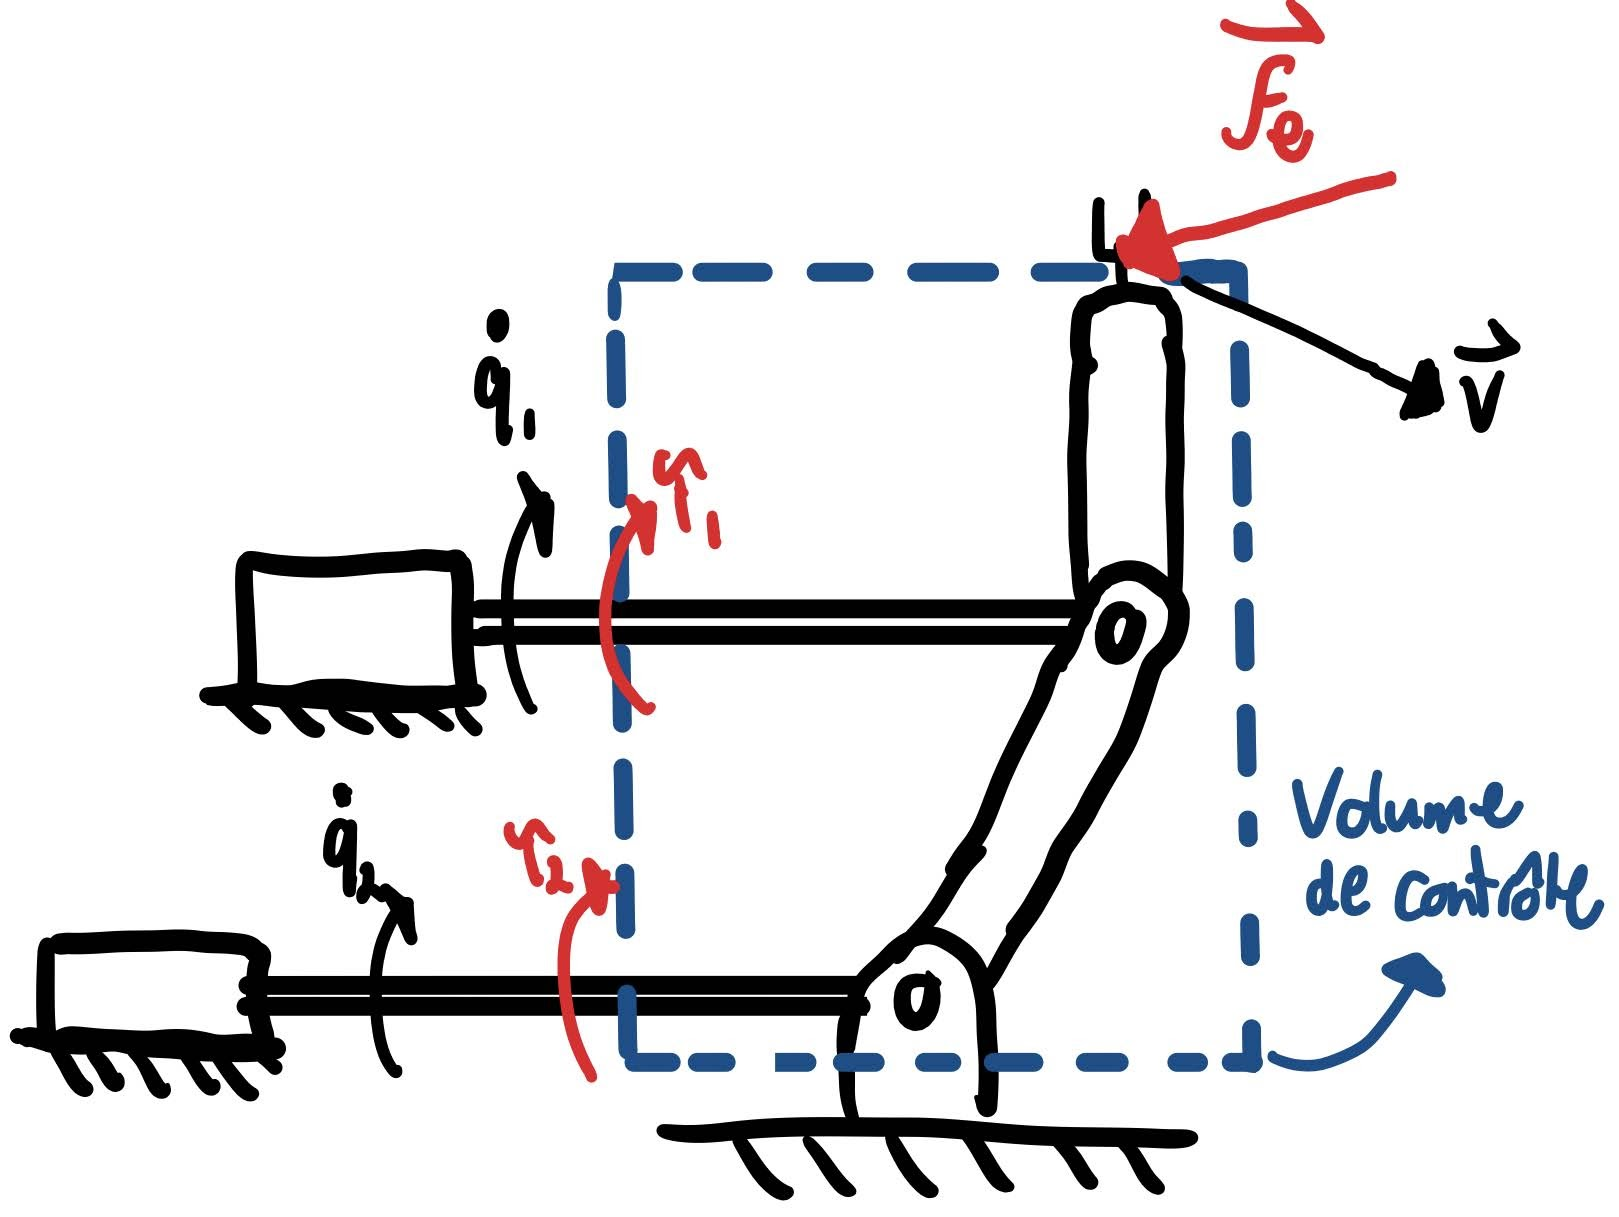
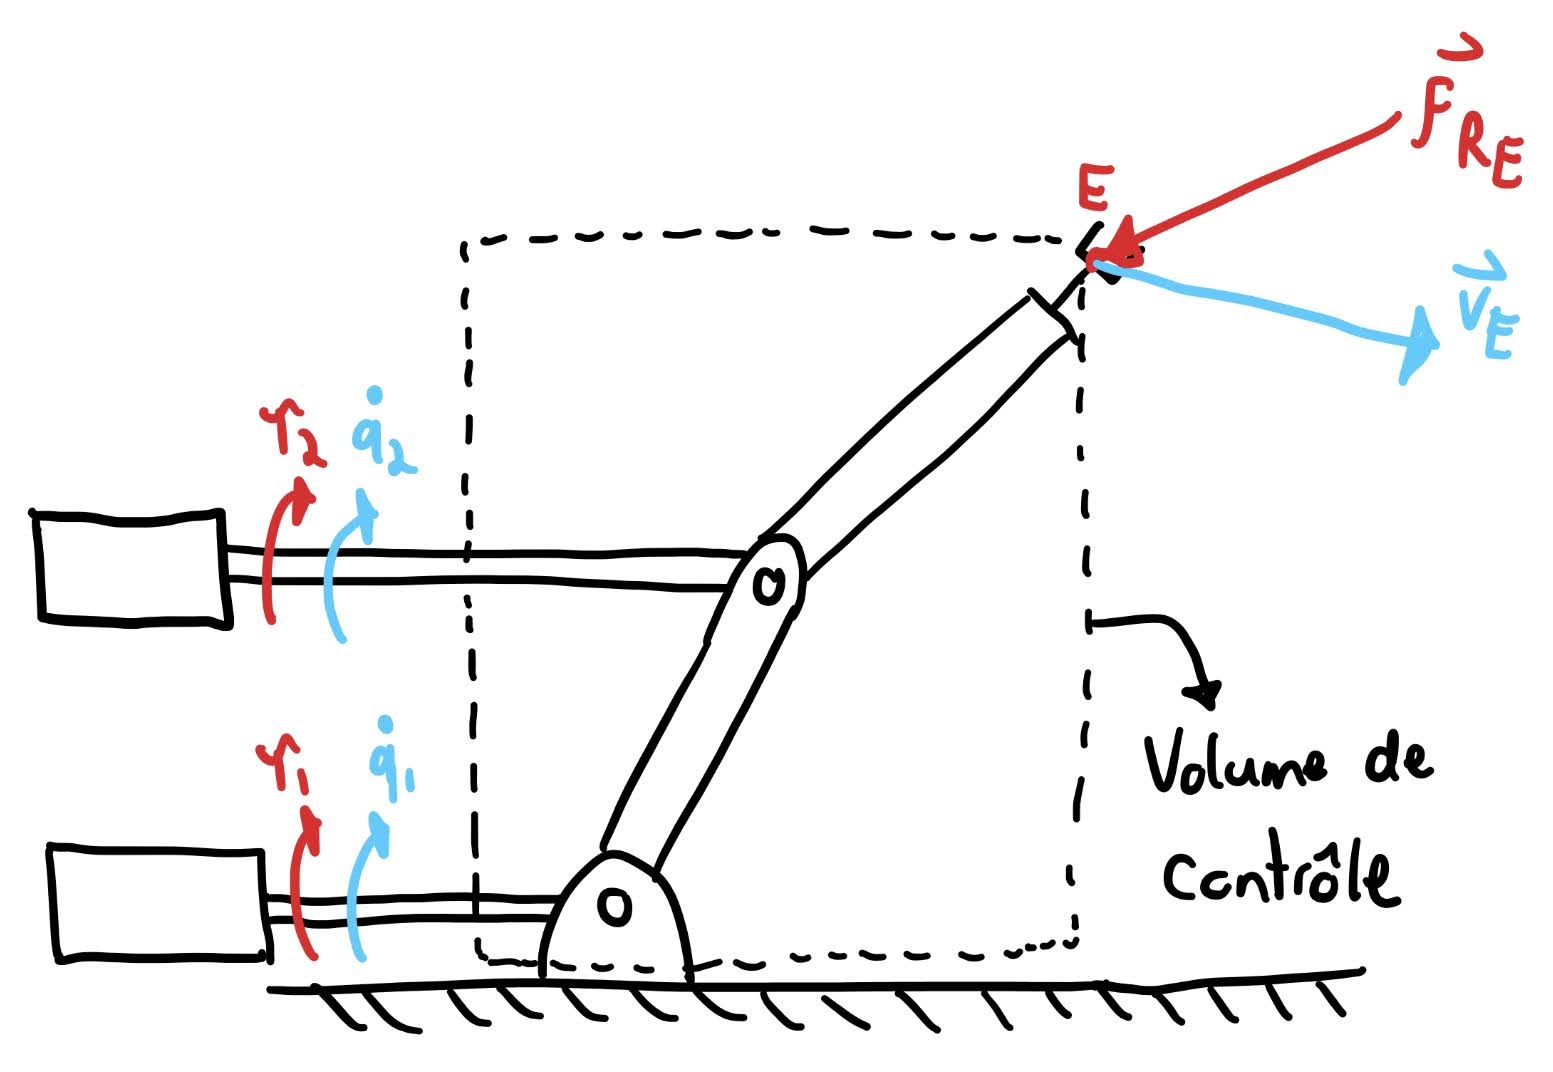
manipulability work

diff --git a/src/manip/static.tex b/src/manip/static.tex
@@ -3,50 +3,16 @@
 
 %Chapitre en construction!
 
+\section{Introduction}
 
-\section{Force}
-\label{sec:force}
-
-Une force est une quantité vectorielle avec une amplitude et une direction, comme pour les notions de cinématique, nous utiliserons une notion qui distingue le vecteur-géométrique $\Vec{f}$ et le vecteur-colonne de composantes $\col{f}^a$ dans une base $a$. Une force appliquée sur un corps $C1$ à un point $A$ sera notée: 
-%%%%%%%%%%%%%%%%
+Ce chapitre présente des méthodes pour déterminer les relations entre les divers forces agissant sur un robot manipulateur lorsque le système est à l'équilibre. La matrice jacobienne $J$, la même matrice de la relation de cinématique différentielle de l'équation \ref{eq:diffkinrel}, permet de transformer une force cartésienne $\col{f}_E$, que l'effecteur du robot applique sur l'environnement, en couples (ou force pour un joint prismatique) équivalents $\col{\tau}$ dans le domaine des joints:
+%%%%%%%%%%%%%%%%%%%%%%%%%%%%%%%%%%%%%%%%%%%%%%%%%%%%%%%%%%%%%%
 \begin{align}
-\vec{f}_{C1_A}
+\col{\tau} &= J\left( \, \col{q} \, \right)^T \, \col{f}_E
+\label{eq:static1}
 \end{align}
-%%%%%%%%%%%%%%%
-Le principe d'action/réaction indique que si une force est appliquée sur un corps $C1$ il y a nécessairement une réaction égale et opposée sur un corps $C2$. Ici une force agissant sur un corps $C1$ par un corps $C2$ ainsi
-%%%%%%%%%%%%%%%%
-\begin{align}
-\vec{f}_{C1_A/C2_B}
-\end{align}
-%%%%%%%%%%%%%%%
-et le principe d'action/réaction nous donne donc la propriété suivante:
-%%%%%%%%%%%%%%%%
-\begin{align}
-\vec{f}_{C1_A/C2_B} = - \vec{f}_{C2_B/C1_A}
-\end{align}
-%%%%%%%%%%%%%%%
-Pour une force de contact le point est le même, mais certaine forces sont appliquée à distance comme la gravité. Cette notation sera utilisée lorsqu'il est question de forces d'interactions entre deux corps car le signe source de confusion lorsqu'on ne distingue pas la force appliquée \textit{sur} à la force appliqué \textit{par} un objet.
-
-Dans ce chapitre, nous définirons un vecteur $\vec{f}_{E}$ comme un force appliquée sur le robot à un point $E$ par l'environnement, lorsque le reste n'est pas précisé:
-%%%%%%%%%%%%%%%%
-\begin{align}
-\vec{f}_{E} =\vec{f}_{robot_{Effecteur}/environment}
-\label{eq:staticmanipulator}
-\end{align}
-%%%%%%%%%%%%%%%
-
-
-\section{Relation entre les forces aux joints et les forces à l'effecteur pour un robot manipulateur}
-\label{sec:manipstatic}
-
-La relation entre les forces/couples dans l'espace des joints $\col{\tau}$ et un vecteur de forces externes $\vec{f}_e$ à l'effecteur d'un robot peut être décrite par la relation suivante:
-%%%%%%%%%%%%%%%%
-\begin{align}
-\col{\tau} &= J\left( \, \col{q} \, \right)^T \, \col{f}_e 
-\label{eq:staticmanipulator}
-\end{align}
-%%%%%%%%%%%%%%%
-où la matrice Jacobienne $J$ est la même matrice de la relation de cinématique différentielle de l'équation \ref{eq:diffkinrel}. Comme illustré à la Figure \ref{fig:controlvolume}, les variables de forces/couples doivent correspondent aux même dégrées de liberté que les variables vitesses associées à la relation de cinématique différentielle. 
+%%%%%%%%%%%%%%%%%%%%%%%%%%%%%%%%%%%%%%%%%%%%%%%%%%%%%%%%%%%%%%
+Cette relation permet de calculer les liens entre les forces externes et les forces produites par les actionneurs sans avoir à déterminer toutes les forces internes du systèmes, ce qui particulièrement utile pour les robots manipulateurs et sera exploité par les méthodes de ce chapitre. 
 %%%%%%%%%%%%%%%%%%%%%%%%%%%%%%%%
 \begin{figure}[H]
 	\centering
@@ -58,6 +24,62 @@ où la matrice Jacobienne $J$ est la même matrice de la relation de cinématiqu
 
 \video{Statique des robots manipulateurs}{https://youtu.be/klAfYgPYi0k}
 
+\section{Les vecteurs forces}
+\label{sec:force}
+
+Une force est une quantité vectorielle avec une amplitude et une direction. Comme pour les notions de cinématique, nous utiliserons une notation qui distingue le vecteur-géométrique $\Vec{f}$ et le vecteur-colonne de composantes $\col{f}^a$ dans une base $a$. De plus, une force appliquée sur un corps $C$ à un point $A$ sera notée: 
+%%%%%%%%%%%%%%%%
+\begin{align}
+\vec{f}_{C_A}
+\end{align}
+%%%%%%%%%%%%%%%%
+Le principe d'action/réaction indique que si une force est appliquée sur un corps $C1$ il y a nécessairement une réaction égale et opposée sur un corps $C2$. Une force agissant sur un corps $C1$ par un corps $C2$ sera notée:
+%%%%%%%%%%%%%%%%
+\begin{align}
+\vec{f}_{C1/C2}
+\end{align}
+%%%%%%%%%%%%%%%
+et le principe d'action/réaction nous donne donc la propriété suivante:
+%%%%%%%%%%%%%%%%
+\begin{align}
+\vec{f}_{C1/C2} = - \vec{f}_{C2/C1}
+\end{align}
+%%%%%%%%%%%%%%%
+Cette notation sera utilisée lorsqu'il est question de forces d'interactions entre deux corps car le signe source de confusion lorsqu'on ne distingue pas la force appliquée \textit{sur} à la force appliqué \textit{par} un objet.
+
+Dans ce chapitre, nous définirons un vecteur $\vec{f}_{R_E}$ comme un force appliquée sur le robot à un point $E$ (typiquement l'effecteur) par l'environnement, et $\vec{f}_{E}$ comme son inverse, i.e. la force que le robot applique sur l'environnement:
+%%%%%%%%%%%%%%%%
+\begin{align}
+\vec{f}_{R_E} &=\vec{f}_{Robot/Environment} \\
+\vec{f}_{E}   &=\vec{f}_{Environment/Robot} = -\vec{f}_{R_E}
+\label{eq:contactforcenotation}
+\end{align}
+%%%%%%%%%%%%%%%
+
+%%%%%%%%%%%%%%%%%%%%%%%%%%%%%%%%
+\begin{figure}[H]
+	\centering
+		\includegraphics[width=0.65\textwidth]{fig/force_ext_contact.jpg}
+	\caption{Action-réaction pour une force de contact}
+	\label{fig:contactforce}
+\end{figure}
+%%%%%%%%%%%%%%%%%%%%%%%%%%%%%%%%
+
+\section{Relation entre les forces aux joints et les forces à l'effecteur}
+\label{sec:manipstatic}
+
+La relation entre les forces/couples dans l'espace des joints $\col{\tau}$ et un vecteur de forces externes $\vec{f}_{R_E}$ appliquée sur l'effecteur d'un robot peut être décrite par la relation suivante:
+%%%%%%%%%%%%%%%%
+\begin{align}
+\col{\tau} &= J\left( \, \col{q} \, \right)^T \, \col{f}_E = -J\left( \, \col{q} \, \right)^T \, \col{f}_{R_E}
+\label{eq:staticmanipulator}
+\end{align}
+%%%%%%%%%%%%%%%
+où la matrice Jacobienne $J$ est la même matrice de la relation de cinématique différentielle de l'équation \ref{eq:diffkinrel}. Comme illustré à la Figure \ref{fig:controlvolume}, les variables de forces/couples doivent correspondent aux même dégrées de liberté que les variables vitesses associées à la relation de cinématique différentielle. 
+
+
+
+
 \begin{proof}
 La relation statique qui implique le Jacobien (eq. \eqref{eq:staticmanipulator}) peut être déterminée à partir d'un bilan de puissance. Si on applique la 1ère loi de la thermodynamique au volume de contrôle indiqué à la Figure \ref{fig:controlvolume} pour calculer le bilan d'énergie:
 %%%%%%%%%%%%%%%%
@@ -65,27 +87,27 @@ La relation statique qui implique le Jacobien (eq. \eqref{eq:staticmanipulator})
 \frac{dE}{dt} = P_{in} - P_{out}
 \end{align}
 %%%%%%%%%%%%%%%
-Les forces internes inertielles et dissipatrices sont ici négligés pour trouver une relation valide dans des conditions quasi-statique. De plus considérons d'abord un cas sans force conservatrice (voir section \ref{sec:manipstaticconservative} pour ce cas) Dans ces conditions, il n'y a aucune accumulation d'énergie interne: les seules entrée/sorties de puissance dans le système sont le travail mécanique fait par les moteurs sur le robot, et le travail mécanique fait par le robot sur l'environnement. L'égalité du travail mécanique en entrée et sortie peut être convertie en relation matricielle:
+Les forces internes inertielles et dissipatrices sont ici négligés pour trouver une relation valide dans des conditions quasi-statique. De plus considérons d'abord un cas sans force conservatrice (voir section \ref{sec:manipstaticconservative} pour ce cas) Dans ces conditions, il n'y a aucune accumulation d'énergie interne: les seules entrée/sorties de puissance dans le système sont le travail mécanique fait par les actionneurs sur le robot, et le travail mécanique fait par le robot sur l'environnement. L'égalité du travail mécanique en entrée et sortie peut être convertie en relation matricielle:
 %%%%%%%%%%%%%%%%
 \begin{align}
 P_{in} &= P_{out} \\
-\dot{q}_1 \tau_1  + \dot{q}_2 \tau_2 + \hdots  &= \Vec{v} \bullet \Vec{f}_e \\
+\dot{q}_1 \tau_1  + \dot{q}_2 \tau_2 + \hdots  &= \Vec{v} \bullet \Vec{f}_E \\
 \left[ \begin{array}{c c c} 
 \dot{q}_1 & \dot{q}_2 & \hdots 
 \end{array} \right] \,
 \left[ \begin{array}{c} 
 \tau_1 \\ \tau_2 \\ \vdots 
-\end{array} \right] &= \col{\dot{r}}^T \col{f}_e \\
-\col{\dot{q}}^T \col{\tau} &= \col{\dot{r}}^T \col{f}_e \\
+\end{array} \right] &= \col{\dot{r}}^T \col{f}_E \\
+\col{\dot{q}}^T \col{\tau} &= \col{\dot{r}}^T \col{f}_E \\
 \end{align}
 %%%%%%%%%%%%%%%
 Ensuite, si on substitut les composantes du vecteur vitesse de l'effecteur $\col{\dot{r}}$ par l'équation de cinématique différentielle directe (eq. \eqref{eq:diffkinrel}), on obtient:
 %%%%%%%%%%%%%%%%
 \begin{align}
-\col{\dot{q}}^T \col{\tau} &= \left( J( \col{q}) \,  \col{\dot{q}}  \right)^T \col{f}_e \\
-\col{\dot{q}}^T \col{\tau} &= \col{\dot{q}}^T  J( \col{q})^T \col{f}_e    \\
-\col{\dot{q}}^T \Big( \col{\tau} \Big) &= \col{\dot{q}}^T  \Big( J( \col{q})^T \col{f}_e \Big)   
-\quad \Rightarrow \quad \col{\tau} = J\left( \, \col{q} \, \right)^T \, \col{f}_e 
+\col{\dot{q}}^T \col{\tau} &= \left( J( \col{q}) \,  \col{\dot{q}}  \right)^T \col{f}_E \\
+\col{\dot{q}}^T \col{\tau} &= \col{\dot{q}}^T  J( \col{q})^T \col{f}_E    \\
+\col{\dot{q}}^T \Big( \col{\tau} \Big) &= \col{\dot{q}}^T  \Big( J( \col{q})^T \col{f}_E \Big)   
+\quad \Rightarrow \quad \col{\tau} = J\left( \, \col{q} \, \right)^T \, \col{f}_E 
 \end{align}
 %%%%%%%%%%%%%%%
 Donc les deux termes qui multiplient (produit intérieur) le vecteur colonne $\col{\dot{q}}$ doivent nécessairement être égaux, se qui nous donne l'équation qui relie les forces dans l'espace des joints aux forces équivalentes dans l'espace de la tâche. 
@@ -177,7 +199,7 @@ Si la bilan d'énergie effectué à la section \ref{sec:manipstatic} est fait en
 
 %%%%%%%%%%%%%%%%
 \begin{align}
-\col{\tau} &= J\left( \, \col{q} \, \right)^T \, \col{f}_e +  g( \col{q} )
+\col{\tau} &= J\left( \, \col{q} \, \right)^T \, \col{f}_E +  g( \col{q} )
 \quad \quad \text{avec:  }
 \underbrace{ \col{g} ( \col{q} ) = 
 \frac{ \partial V(\col{q} ) }{\partial \col{q}^T } 

diff --git a/src/manip/mouvement.tex b/src/manip/mouvement.tex
@@ -824,6 +824,15 @@ Donc les singularités sont les configurations avec un angle $q_2$ égale à 0 o
 
 \end{example}
 
+\subsubsection{Limites de l'espace de travail}
+
+Un robot va nécessairement être sur une singularité aux limites de sont espace de travail, car par définition le robot est incapable de bouger son effecteur dans la direction normale à la surface qui définie la limite de l'espace de travail (sinon le robot pourrait sortir de l'espace de travail ce qui est une contradiction). Par exemple, les deux singularité du robot 2DDL de l'exemple précédant correspondent à des configurations où l'effecteur est à la limite intérieur de l'espace de travail ou à la limite extérieur de l'espace de travail. 
+
+
+\subsubsection{Types de singularités}
+
+Détails à venir!
+
 
 %%%%%%%%%%%%%%%%%%%%%%%%%%%%%%%%%%%%%%%%%%%%%%%%%%%%%%%%%%%%%%%%%%%%%%%%%%%%%%%%%%%%%%%%%%%%%%%%%%%%%%%%%
 \subsection{Cinématique différentielle inverse d'un robot redondant (situations sous-contraintes)}
@@ -997,11 +1006,75 @@ Un méthode pratique pour la cinématique inverse dans ce contexte est la métho
 
 \newpage
 %%%%%%%%%%%%%%%%%%%%%%%%%%%%%%%%%%%%%%%%%%%%%%%%%%%%%%%%%%%%%%%
-\subsection{Indice de manipulabilité d'un robot manipulateur}
+\subsection{Manipulabilité d'un robot manipulateur}
 
-Les indices de manipulabilité sont des fonctions scalaires qui ont comme objectif de caractériser si un robot dans une certaine configuration est proche d'une singularité. Même si un robot n'est pas parfaitement sur une singularité, certaines configurations peuvent nécessiter de très grandes vitesses aux joints pour satisfaire des vitesses cartésiennes de l'effecteur. Des indicateurs ont été développés pour analyser ces situations, et peuvent être utile lorsque qu'on conçoit la cinématique d'un robot ou lorsque qu'on programme des tâches avec un robot existant.
+Lorsqu'on désire effectuer une tâche avec l'effecteur d'un robot à une certaine position, la première question est: est-ce que le robot est capable d'atteindre cette position, i.e. est-ce que la position cible est dans l'espace de travail? Si la position est atteignable, une deuxième question doit être posée: est-ce que le robot est capable de bouger arbitrairement à cette position? Cette deuxième question est la notion de manipulabilité du robot manipulateur. 
+
+Comme discuté à la section \ref{sec:singu}, lorsque le robot est à une configuration singulière l'effecteur est incapable de bouger dans certaines directions. On considère donc que la manipulabilité d'un robot n'est pas bonne sur une singularité. Toutefois, il est utile d'avoir une notion non-binaire de la manipulabilité, car même si un robot n'est pas parfaitement sur une singularité, certaines configurations peuvent nécessiter de très grandes vitesses aux joints pour satisfaire des vitesses cartésiennes de l'effecteur. Donc en considérant les limites de vitesse des joints le robot est en fait incapable d'executer certain vecteur vitesse à son effecteur proche d'une singularité. Les indices de manipulabilité sont des fonctions scalaires qui ont comme objectif de caractériser si un robot dans une certaine configuration est proche d'une singularité.  Ces indicateurs peuvent être utile lorsque qu'on conçoit la cinématique d'un robot ou lorsque qu'on programme des tâches avec un robot existant.
+
+
+\subsubsection{Indices de manipulabilité d'un robot manipulateur}
+
+Pour les situations ou la matrice jacobienne $J$ du robot est carré, le déterminant est un bon indice de la manipulabilité du robot:
+%%%%%%%%%%%%%%%%%%%%%%%%%%%%%%%%%%%
+\begin{align}
+m_1(\col{q})= det( J(\col{q}) )
+\end{align} 
+%%%%%%%%%%%%%%%%%%%%%%%%%%%%%%%%%%%
+Le déterminant correspond au volume du prisme généré par les colonnes du jacobien qui correspondent à des vecteurs vitesses de l'effecteur pour des vitesses de joints unitaires de chacun des axes:
+%%%%%%%%%%%%%%%%%%%%%%%%%%%%%%%%%%
+\begin{figure}[H]
+	\centering
+		\includegraphics[width=0.75\textwidth]{fig/jacobianvolume.jpg}
+	\caption{Volume de la matrice jacobienne}
+	\label{fig:jacobianvolume}
+\end{figure}
+%%%%%%%%%%%%%%%%%%%%%%%%%%%%%%%%%%
+Dès que un des vecteurs est très petit, ou bien quand les vecteurs sont colinéaires, le volume du prisme devient très petit ce qui correspond à une mauvaise manipulabilité.
+
+
+Un autre indicateur souvent utilisé est les valeurs singulières de la matrice jacobienne. Les valeurs singulières $\mu$ sont relié aux valeurs propres $\lambda$ du produit $J^TJ$
+%%%%%%%%%%%%%%%%%%%%%%%%%%%%%%%%%%%
+\begin{align}
+\mu^2_{i}( J(\col{q}) ) = \lambda_i( J(\col{q})^T J(\col{q}) )\\
+\end{align} 
+%%%%%%%%%%%%%%%%%%%%%%%%%%%%%%%%%%%
+Pour relié à un indice de manipulabilité, on peut surveillez la plus petite valeur singulière ou bien le ratio entre la plus petite et la plus grande:
+%%%%%%%%%%%%%%%%%%%%%%%%%%%%%%%%%%%
+\begin{align}
+m_2(\col{q})= \mu_{min}( J(\col{q}) ) \\
+m_3(\col{q})= \frac{\mu_{min}( J(\col{q}) ) }{\mu_{max}( J(\col{q}) ) }\\
+\end{align} 
+%%%%%%%%%%%%%%%%%%%%%%%%%%%%%%%%%%%
+La valeur $\mu_{min}$ correspond à la norme minimal du vecteur vitesse de l'effecteur produit par un vecteur de vitesse aux joints unitaire.
+
+
+\subsubsection{Ellipsoïde de vitesse}
+
+L'ellipsoïde de vitesse d'un robot manipulateur est l'enveloppe de vecteur vitesse possible à l'effecteur pour un vecteur de vitesse des joints unitaires:
+%%%%%%%%%%%%%%%%%%%%%%%%%%%%%%%%%%
+\begin{figure}[H]
+	\centering
+		\includegraphics[width=0.85\textwidth]{fig/manipulabilityellipsoid.jpg}
+	\caption{Ellipsoïde de vitesse}
+	\label{fig:manipulabilityellipsoid}
+\end{figure}
+%%%%%%%%%%%%%%%%%%%%%%%%%%%%%%%%%%
+
+%%%%%%%%%%%%%%%%%%%%%%%%%%%%%%%%%%%
+\begin{align}
+1 &= \dot{\col{q}}^T \dot{\col{q}} \\
+1 &= \dot{\col{r}}^T J^{-T} J^{-1} \dot{\col{r}} \\
+1 &= \dot{\col{r}}^T (J J^T)^{-1} \dot{\col{r}} \\
+1 &= \dot{\col{r}}^T A^{-1} \dot{\col{r}} \quad\quad \text{avec} \quad\quad A = J J^T
+\end{align} 
+%%%%%%%%%%%%%%%%%%%%%%%%%%%%%%%%%%%
 
 Détails à venir!
+
+
+
+
 
 
 

diff --git a/src/manip/dynamic.tex b/src/manip/dynamic.tex
@@ -55,8 +55,8 @@ B(\col{q}) \col{u}
 }_{\text{effet des actionneurs}}
 +
 \underbrace{
-J^T(\col{q}) \col{f}_e
-}_{\text{force externes}}
+J^T(\col{q}) \col{f}_{R_E}
+}_{\text{force externes sur l'effecteur}}
 \label{eq:manipulator}
 \end{align}
 %
